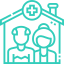
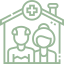
Alteração das imagens da section services

diff --git a/src/components/SectionServices.tsx b/src/components/SectionServices.tsx
@@ -2,7 +2,7 @@ import Image from "next/image";
 import { Container } from "./Container";
 import Homecare from "@/assets/homecare.png"
 import Curativo from "@/assets/curativo.png"
-import Idosos from "@/assets/Idosos.png"
+import Idosos from "@/assets/idosos.png"
 import Gravida from "@/assets/gravida.png"
 import Enfermeira from "@/assets/enfermeira.png"
 
